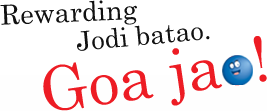
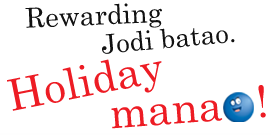
home page change

Changed region(s): [[0.0, 0.0, 1.0, 1.0], [0.6292, 0.4324, 0.6891, 0.4865]]

diff --git a/jodibreakerapp/templates/index.html b/jodibreakerapp/templates/index.html
@@ -2,9 +2,16 @@
 
 {% block css.custom %}
 <style type="text/css">
-.terma_and_condition{width:315px;}
+.terma_and_condition{width:210px;float: left;margin: 25px 0 0 15px;}
 .terma_and_condition a{float:left;}
 .apply_now{display: none;}
+.right_contant_text{padding-top:0px;width:400px}
+.right_contant{width:430px}
+.center_contant{width:500px}
+.contant_outer{background: #ffc20f;min-height: 580px;}
+.goa_jao{margin-left: 110px;}
+.poitee{padding-left: 548px;}
+.poitee_hand{padding-left: 520px;}
 </style>
 
 {% endblock css.custom %}
@@ -12,15 +19,16 @@
 
 
     <div class="contant_outer">
+    {% comment %}
  	    <div class="left_contant">
-            <div class="watch_video"> <a href="{% url video %}" class="fancybox iframe.fancybox"  style="color:#0072bc; text-decoration:none;"><img src="{{MEDIA_URL}}/images/watch_video.png" border="0"></a></div>
+
            <div class="facebook"><a href="https://www.facebook.com/AmericanExpressIndia" target="_blank"><div class="facebook_hover"></div></a></div>
             <div class="clear"></div>
             <div class="card"><a href="https://www.americanexpress.com/in/content/payback-card/" target="_blank"><img src="{{MEDIA_URL}}/images/pay_back_card.png" border="0"></a></div> 
         </div>
-       
+{% endcomment %}
         <div class="center_contant">
-         	<div class="goa_jao"><img src="{{MEDIA_URL}}/images/goa_jao.png"></div>
+         	<div class="goa_jao"><img src="{{MEDIA_URL}}/images/goa_jao.png"></div><br/>
                 <div class="banner">
                  <div class="rotator">
                       <ul>
@@ -31,12 +39,18 @@
                       </ul>
                     </div>
                 </div>
+            <div class="card"><a href="https://www.americanexpress.com/in/content/payback-card/" target="_blank"><img src="{{MEDIA_URL}}/images/pay_back_card.png" border="0"></a></div>
        </div>
       
     <div class="right_contant">
     	<div class="right_top"></div>
         <div class="clear"></div>
-          <div class="right_contant_text">Rain is no fun without the steaming hot pakoras. Anarkali is incomplete without Salim. It’s the perfect 						             chemistry between the two that makes them amongst the most rocking jodis. Just like the rewarding duo of American Express and PAYBACK.            <br><br>
+          <div class="right_contant_text">
+              <div class="hmright">
+              <div class="watch_video"> <a href="{% url video %}" class="fancybox iframe.fancybox"  style="color:#0072bc; text-decoration:none;"><img src="{{MEDIA_URL}}/images/watch_video.png" border="0"></a>
+              </div>
+              </div>
+              Rain is no fun without the steaming hot pakoras. Anarkali is incomplete without Salim. It’s the perfect 						             chemistry between the two that makes them amongst the most rocking jodis. Just like the rewarding duo of American Express and PAYBACK.            <br><br>
               Think you know a better one? Participate in the
             <div class="rewarding"><img src="{{MEDIA_URL}}/images/rewarding.jpg"></div>
               and boost your chances of winning a trip for two to Goa, worth Rs.30,000, sponsored by Cleartrip.com.
@@ -47,7 +61,9 @@
 
         </div>
         <div class="terma_and_condition">
+{% comment %}
             <a href="{% url leader_board %}" target="_blank" >Leader Board</a> <span>|</span>
+{% endcomment %}
             <a class="marright" href="{% url about %}" target="_blank">About the Contest</a><span>|</span>
             <a class="marright" href="{% url terms %}" target="_blank">Terms and Conditions</a>
 

diff --git a/media/css/style.css b/media/css/style.css
@@ -31,7 +31,7 @@ img.bg {height: auto;left: 0;min-height: 100%;min-width: 1400px;position: absolu
 .left_contant {width:270px; height:400px; float:left;}
 .left_contant_2 {width:120px; height:400px; float:left;}
 
-.watch_video {width:242px; height:209px; margin:-35px 0 0 30px; }
+.watch_video {width:242px; height:209px; margin:-50px 0 0 30px; }
 .facebook {width:100px; height:30px; margin-top:50px;}
 .facebook_hover {width:100px; height:47px; background:url(/media/images/facebook.png) no-repeat top; }
 .facebook_hover:hover {width:100px; height:48px; background-position:bottom }
@@ -49,10 +49,10 @@ div.rotator ul li.show {z-index:500}
 
 .center_contant {width:317px; height:400px; float:left;}
 .center_contant_2 {width:317px; height:400px; float:left; margin-left:-20px;}
-.goa_jao {width:267px; height:120px; margin:30px 0px 0px 19px;}
-.goa_jao_2 {width:267px; height:120px; margin:55px 0px 0px 18px;}
+.goa_jao {width:267px; height:135px; margin:30px 0px 0px 19px;}
+.goa_jao_2 {width:267px; height:135px; margin:55px 0px 0px 18px;}
 
-.banner {width:267px; height:200px; margin-top:0px;}
+.banner {width:267px; height:200px; margin-top:0px;margin-left: 60px;}
 .from_banner {width:267px; height:200px; margin:0px 0 0 13px;}
 
 .right_contant {width:344px; height:400px; float:left;}
@@ -60,7 +60,7 @@ div.rotator ul li.show {z-index:500}
 .right_top { width:200px; height:30px;float:right;}
 .rewarding {width:350px; height:30px;}
 
-.clear_logo {width:350px; height:40px; float:left; margin-top:0px; margin-left:25px;}
+.clear_logo {width:165px; height:40px; float:left; margin-top:0px; margin-left:25px;}
 
 .participate_hover{width:240px; height:65px; margin:0px 15px 3px 14px; background:url(/media/images/pariticipate.png) no-repeat top; }
 .participate_hover:hover { background-position:bottom;}
@@ -274,3 +274,4 @@ h3 {font-size:24px; color:#215578;font-weight:lighter; font-family:Arial, Helvet
 .red {width:100%; height:20px; font-family:Arial; font-size:12px; color:#a0410d; text-align:center;}
 .from_left_contant {width:315px; height:500px; float:left; margin-left:0px; }
 h2 {font-size:24px; color:#215578; width:auto; float:left; font-weight:lighter; font-family:Arial, Helvetica, sans-serif; }
+.hmright{width:100%;float:left;margin-bottom: 10px;}

diff --git a/jodibreakerapp/templates/no.html b/jodibreakerapp/templates/no.html
@@ -4,7 +4,7 @@
     <div class="right_just">Just in case your rewarding jodi wins, your contact details would be the fastest way to send you to Goa.
         <div class="num_from">
             <input type="text" id="cls_mob" maxlength="12" name="mobile" class="mobs" />
-            <span style="font-size:10px">your contact detail will be used for marketing</span>
+            <span style="font-size:10px;float:left;line-height: 15px;">By signing up, I agree to being contacted by American Express Banking Corp through Phone, Email and SMS.</span>
         </div>
         <div class="clear"></div>
         <div class="skip"><a href="" class="cls_continue_mob cls_skip" style=" color:#000; text-decoration:none;">Skip </a>| </div>

diff --git a/jodibreakerapp/templates/from.html b/jodibreakerapp/templates/from.html
@@ -64,7 +64,9 @@
     </form>
     </div>  
       
-      <div class="terma_and_condition_2"><a href="{% url leader_board %}" target="_blank" >Leader Board</a> <span>|</span>
+      <div class="terma_and_condition_2">
+
+          <a href="{% url leader_board %}" target="_blank" >Leader Board</a> <span>|</span>
           <a class="marright" href="{% url about %}" target="_blank">About the Contest</a><span>|</span>
           <a class="marright" href="{% url terms %}" target="_blank">Terms and Conditions</a></div>
       

diff --git a/media/js/jodibreaker.js b/media/js/jodibreaker.js
@@ -3,7 +3,7 @@ if($('#id_jodi').val()!=0 || $.trim($('#id_jodi_custom').val())!=''){
     if($('#id_jodi').val()!=0 && $.trim($('#id_jodi_custom').val())!=''){
         alert('Kindly create one Jodi to proceed');
     }else{
-        $('.cls_box').dialog({width:550,autoOpen:false,height:310,modal:true});
+        $('.cls_box').dialog({width:550,autoOpen:false,height:320,modal:true});
         $('.cls_box').dialog('open');
     }
 

diff --git a/jodibreakerapp/templates/treading_jodi.html b/jodibreakerapp/templates/treading_jodi.html
@@ -47,7 +47,9 @@
     {% else %}
     <div class="make">Thank you for submitting your favorite Jodi</div>
     {% endif %}
+    {% if selected_jodi.jodi %}
     <div class="harmonium">{{selected_jodi.jodi}}</div>
+    {% endif %}
    	<div class="your_jodi">
            Your Jodi is at rank {{jodiRank}} in the Rewarding Jodi Batao Contest.
            </div>
